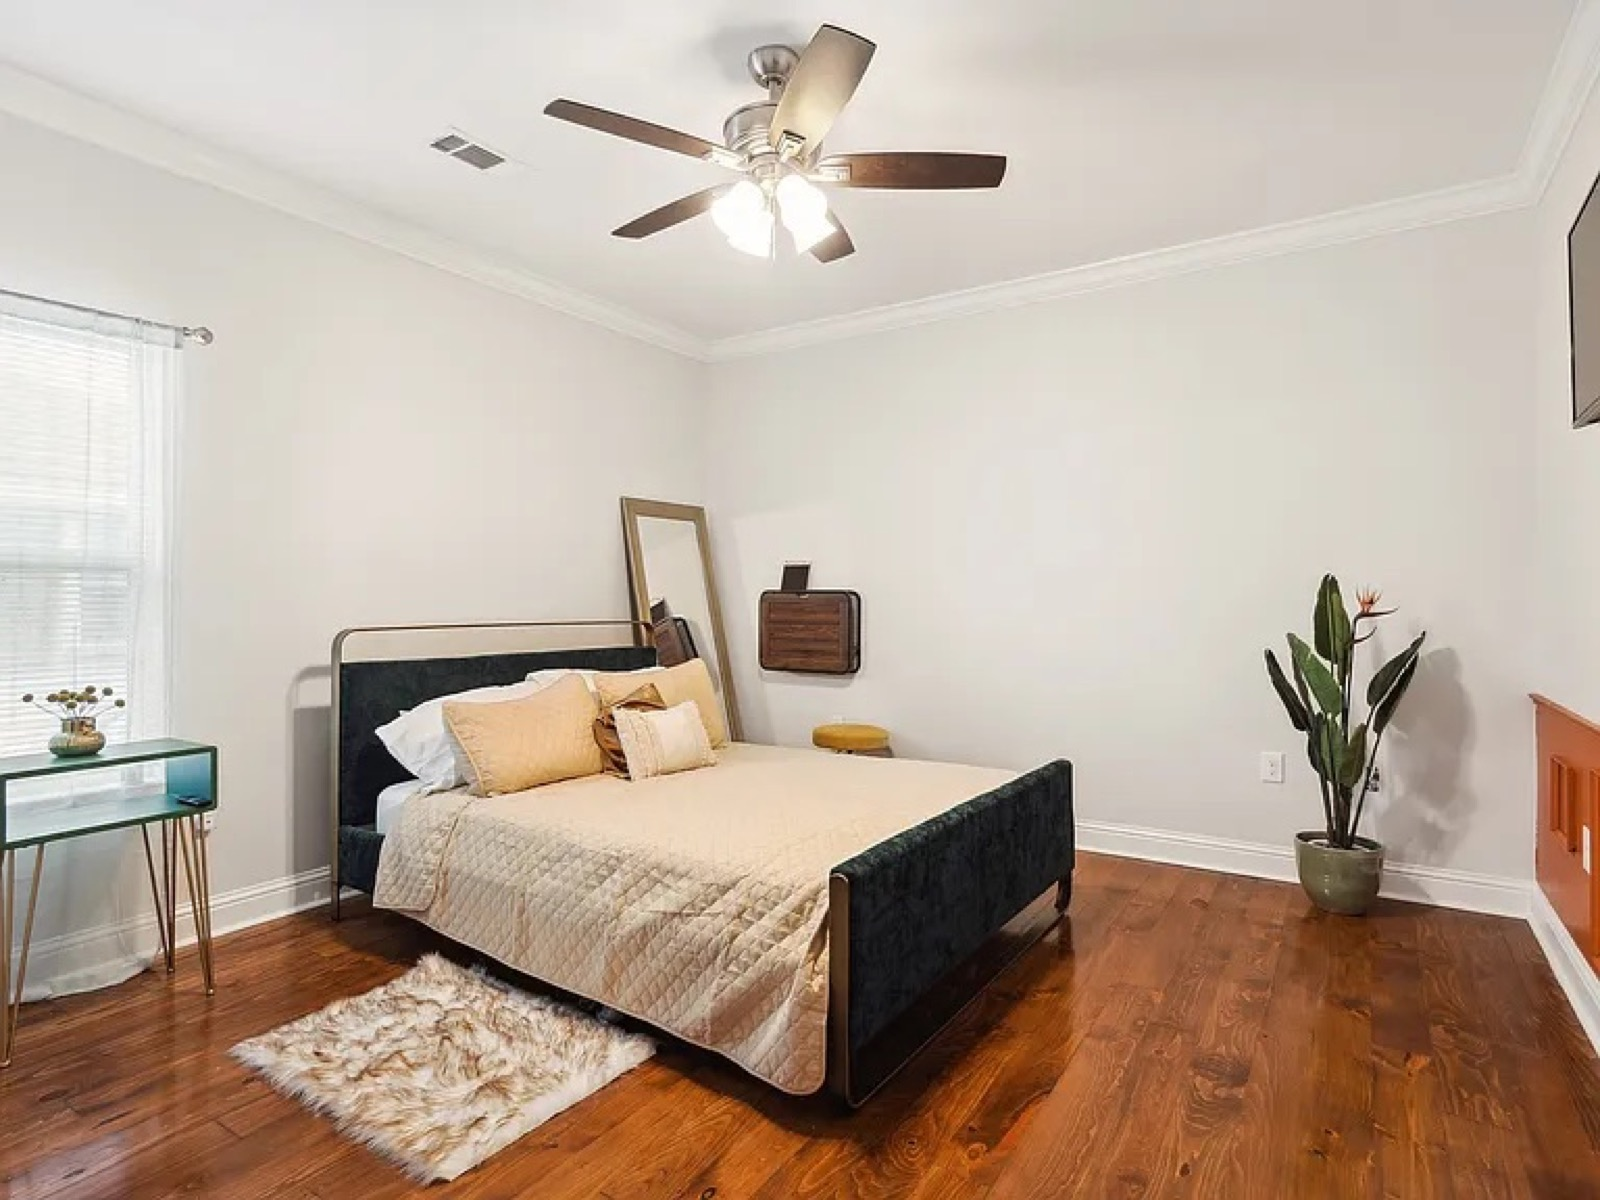
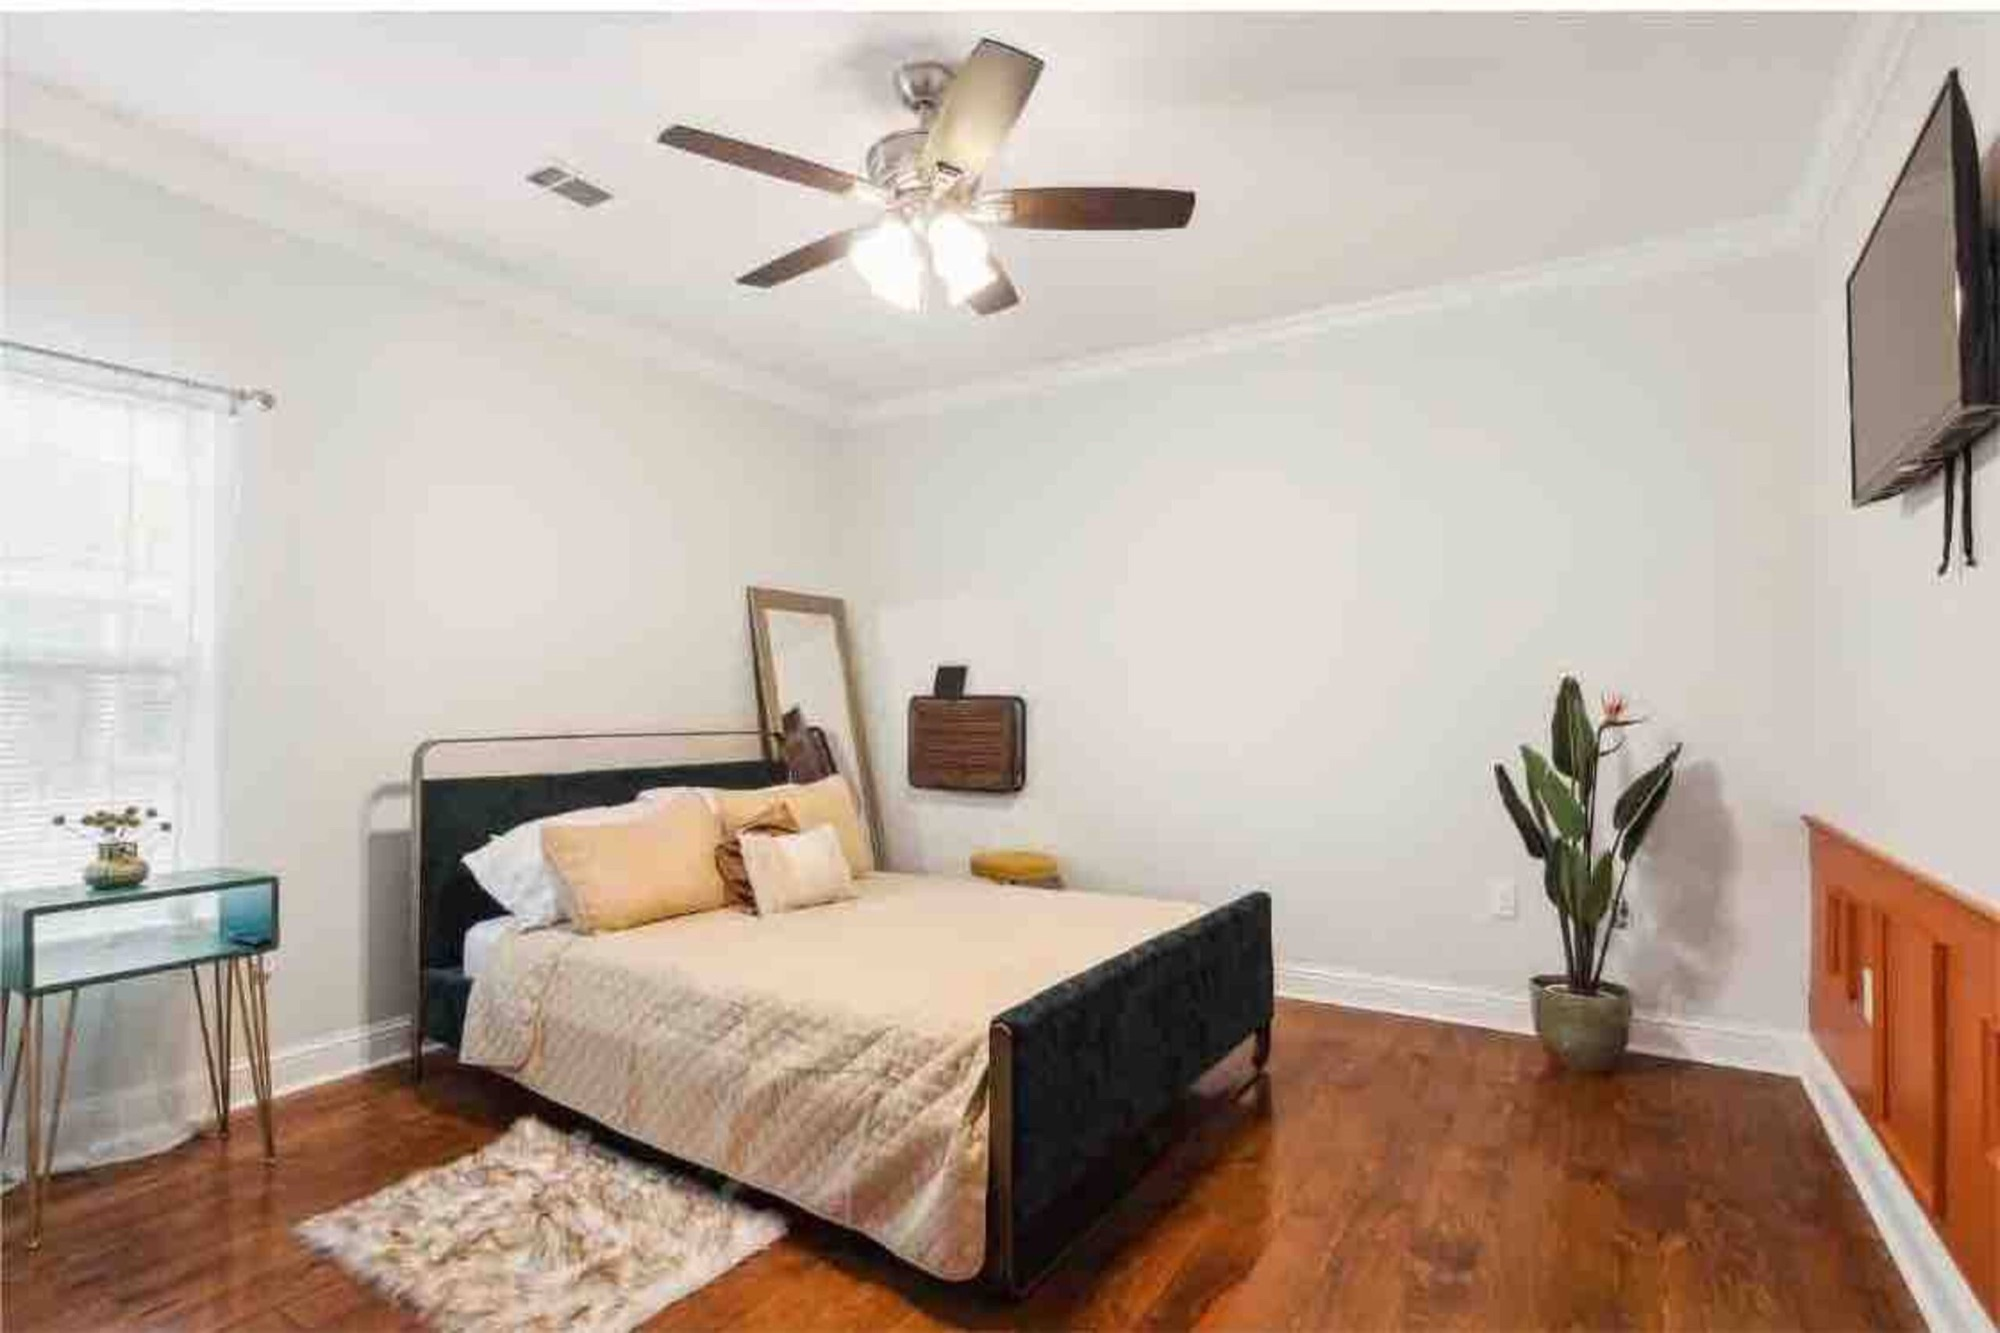
Upgrade 1334 photos from the Airbnb listing, add its bathroom
The Airbnb listing turned out to carry the same professional shoot already on
the site, at 2560px against the site's 1600px. Five existing photos are now
2000px versions of the same shots (2000 rather than 2560: the gallery renders
at ~1132px, so this is retina without shipping needlessly large files).

The exterior also improves beyond resolution — the previous file was cropped
to a near-square 1600x1563; the Airbnb frame shows the house properly.

Adds a bathroom photo. 1334 is listed as 2bd/1ba and had no bathroom in its
gallery at all. Card badge goes 5 -> 6 photos to stay honest, and the card's
declared dimensions were corrected to match the new file.

Deliberately skipped from that set: the two neighborhood storefronts (St
Claude Arts, Canseco's Market) which are Airbnb's area photos rather than the
property, and the bunk-bed room, which is short-term-stay staging and would
misrepresent what a long-term tenant gets.

1332 is left alone for now. Its Airbnb set mixes professional shots with
heavy themed decor (neon sign, records, bunk beds) and is hard to tell apart
from the near-identical sibling unit, so swapping blind risks putting the
wrong unit's rooms on the page.

diff --git a/public/property-1334-tricou-st.html b/public/property-1334-tricou-st.html
@@ -95,23 +95,26 @@
 
     <div class="gallery" data-gallery>
       <div class="gallery-main">
-        <img src="images/properties/1334-tricou/exterior-front.jpg" alt="Front exterior of 1334 Tricou St" width="1600" height="1563">
+        <img src="images/properties/1334-tricou/exterior-front.jpg" alt="Front exterior of 1334 Tricou St" width="2000" height="1633">
       </div>
       <div class="gallery-thumbs">
         <button class="active" data-full="images/properties/1334-tricou/exterior-front.jpg" data-alt="Front exterior of 1334 Tricou St">
-          <img src="images/properties/1334-tricou/exterior-front.jpg" alt="Front exterior thumbnail" width="1600" height="1563" loading="lazy">
+          <img src="images/properties/1334-tricou/exterior-front.jpg" alt="Front exterior thumbnail" width="2000" height="1633" loading="lazy">
         </button>
         <button data-full="images/properties/1334-tricou/living-room-wide.jpg" data-alt="Living room at 1334 Tricou St">
-          <img src="images/properties/1334-tricou/living-room-wide.jpg" alt="Living room thumbnail" width="1600" height="1200" loading="lazy">
+          <img src="images/properties/1334-tricou/living-room-wide.jpg" alt="Living room thumbnail" width="2000" height="1335" loading="lazy">
         </button>
         <button data-full="images/properties/1334-tricou/kitchen.jpg" data-alt="Kitchen at 1334 Tricou St">
-          <img src="images/properties/1334-tricou/kitchen.jpg" alt="Kitchen thumbnail" width="1600" height="1200" loading="lazy">
+          <img src="images/properties/1334-tricou/kitchen.jpg" alt="Kitchen thumbnail" width="2000" height="1335" loading="lazy">
         </button>
         <button data-full="images/properties/1334-tricou/bedroom.jpg" data-alt="Bedroom at 1334 Tricou St">
-          <img src="images/properties/1334-tricou/bedroom.jpg" alt="Bedroom thumbnail" width="1600" height="1200" loading="lazy">
+          <img src="images/properties/1334-tricou/bedroom.jpg" alt="Bedroom thumbnail" width="2000" height="1333" loading="lazy">
         </button>
         <button data-full="images/properties/1334-tricou/living-room.jpg" data-alt="Open-plan living and dining area at 1334 Tricou St">
-          <img src="images/properties/1334-tricou/living-room.jpg" alt="Open-plan living area thumbnail" width="1600" height="1200" loading="lazy">
+          <img src="images/properties/1334-tricou/living-room.jpg" alt="Open-plan living area thumbnail" width="2000" height="1333" loading="lazy">
+        </button>
+        <button data-full="images/properties/1334-tricou/bathroom.jpg" data-alt="Bathroom at 1334 Tricou St">
+          <img src="images/properties/1334-tricou/bathroom.jpg" alt="Bathroom thumbnail" width="2000" height="1335" loading="lazy">
         </button>
       </div>
     </div>

diff --git a/public/properties.html b/public/properties.html
@@ -104,8 +104,8 @@
       <article class="card">
         <a href="property-1334-tricou-st.html" class="card-photo">
           <span class="card-badge">Multifamily</span>
-          <span class="card-photo-count">5 photos</span>
-          <img src="images/properties/1334-tricou/exterior-front.jpg" alt="Front exterior of 1334 Tricou St, New Orleans, LA" width="1600" height="1563" loading="lazy">
+          <span class="card-photo-count">6 photos</span>
+          <img src="images/properties/1334-tricou/exterior-front.jpg" alt="Front exterior of 1334 Tricou St, New Orleans, LA" width="2000" height="1633" loading="lazy">
         </a>
         <div class="card-body">
           <div class="card-specs">2 <span>bd</span> 1 <span>ba</span> 1,117 <span>sqft</span></div>
